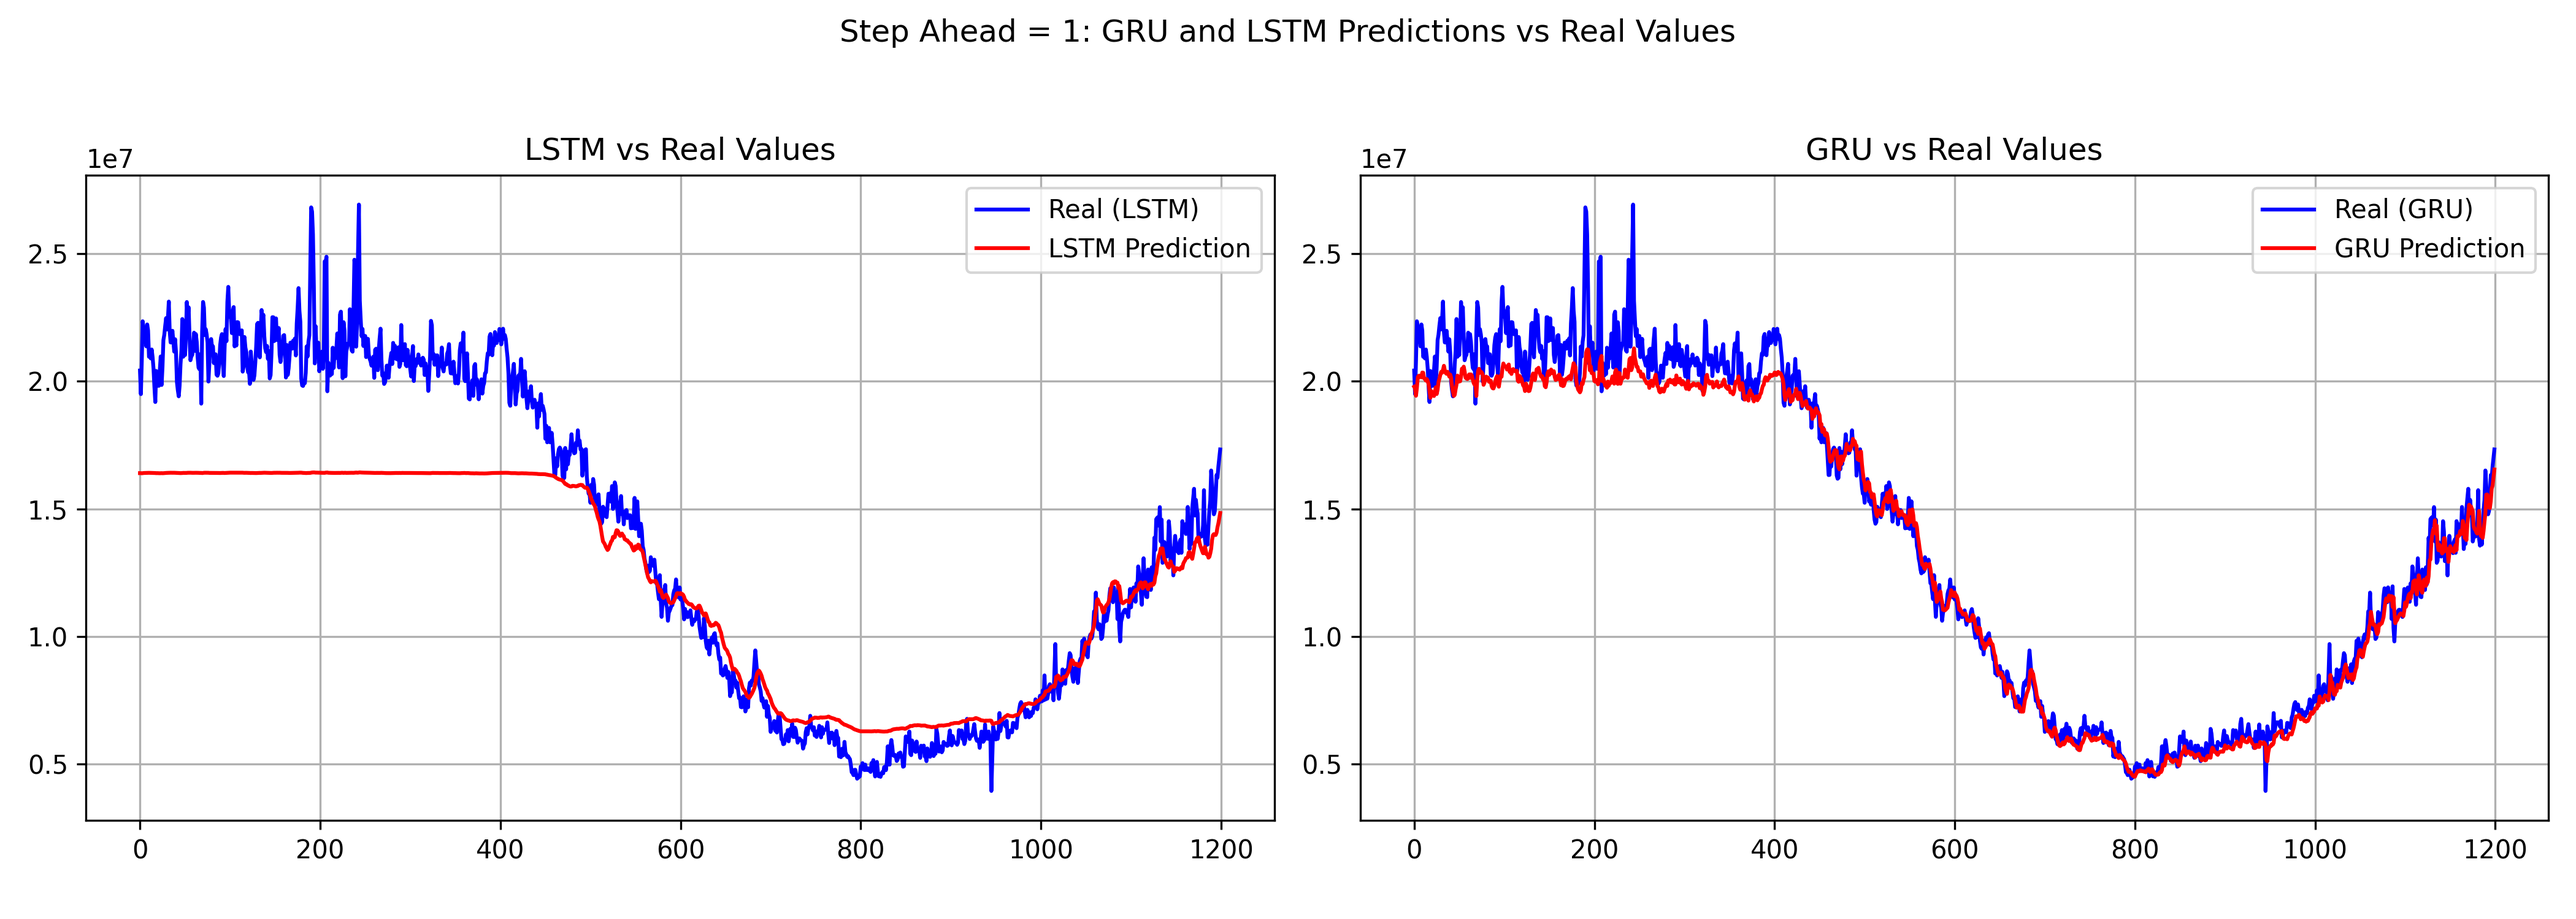
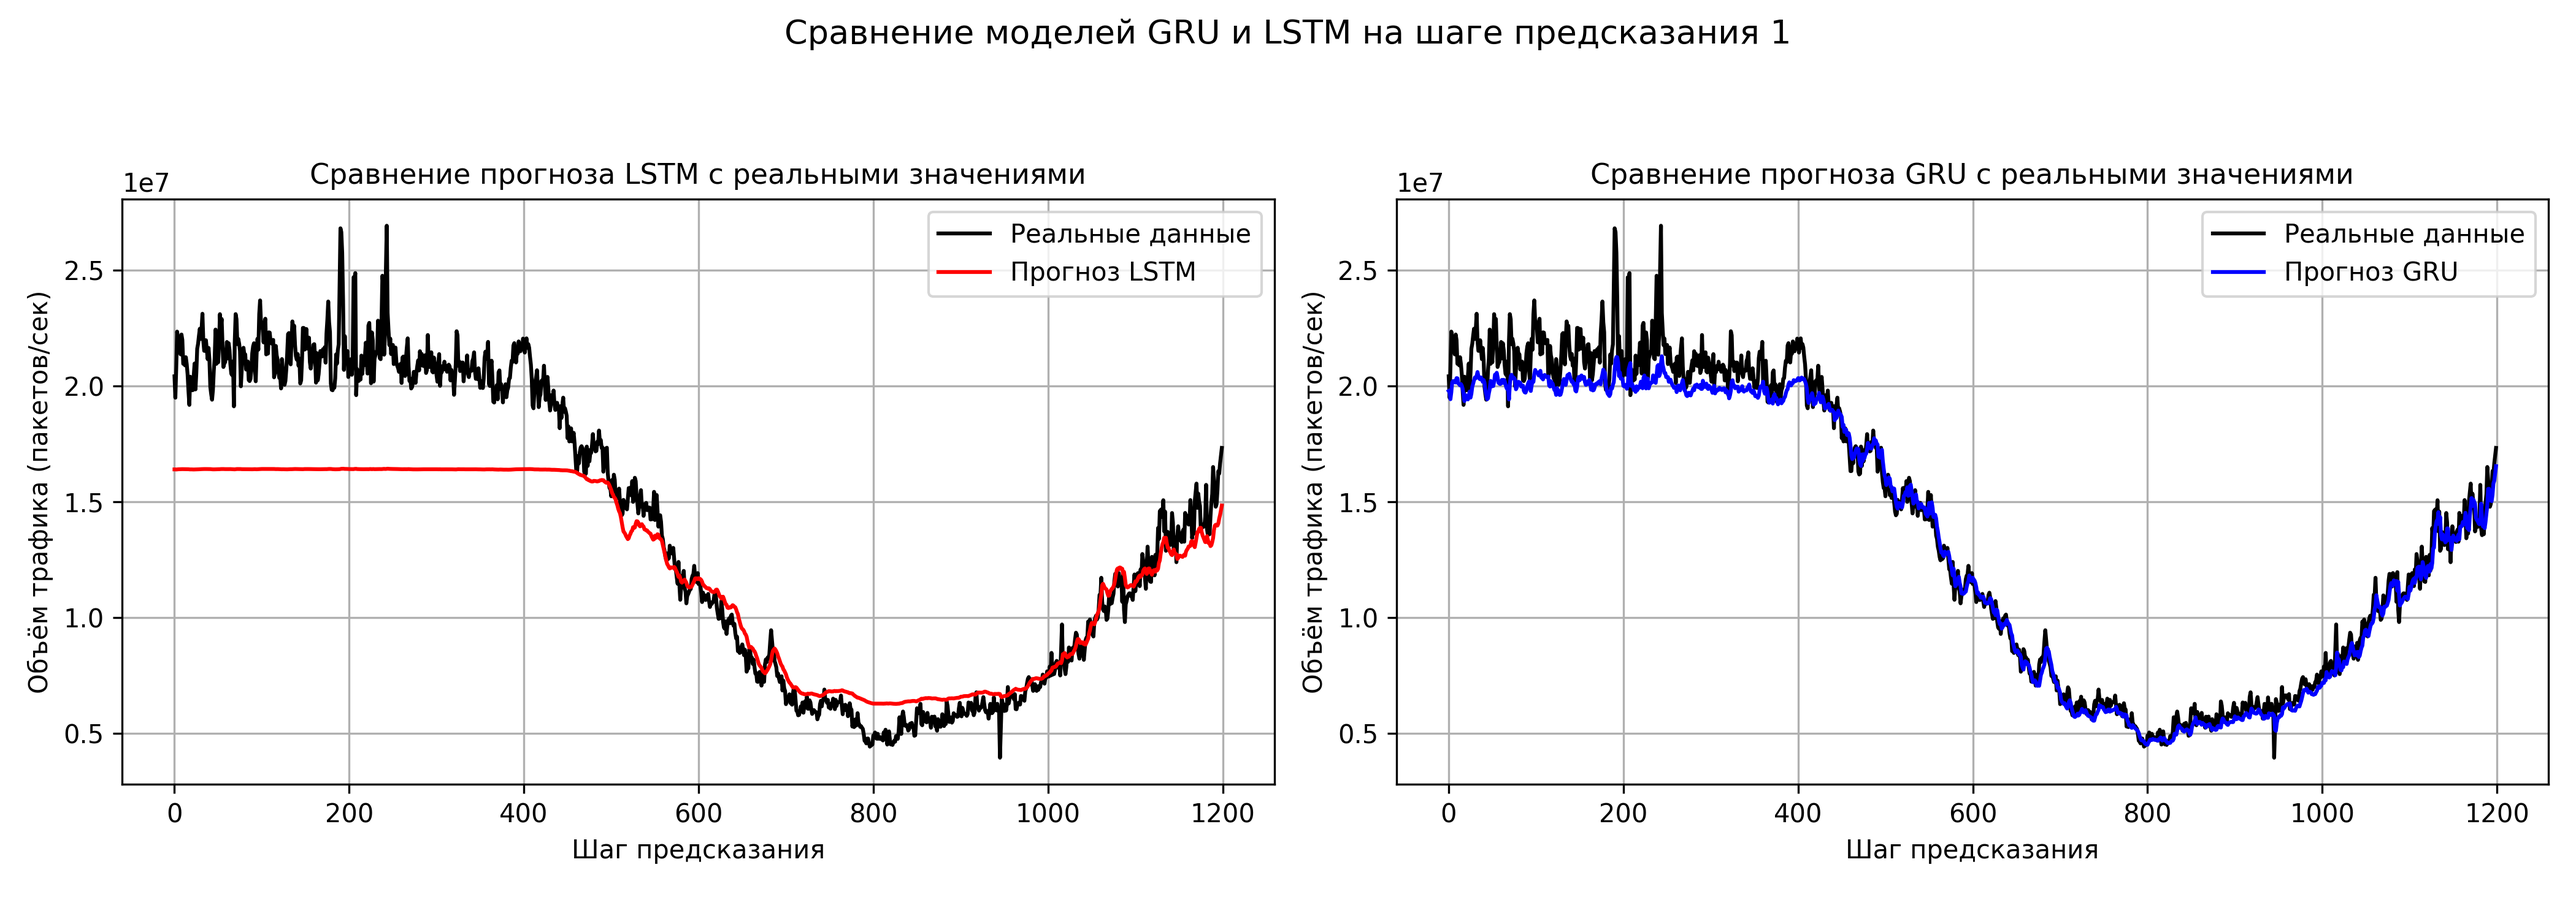
final1

diff --git a/evaluation/final_plot.py b/evaluation/final_plot.py
@@ -29,26 +29,30 @@ x = np.arange(N)
 fig, axs = plt.subplots(1, 2, figsize=(14, 5))
 
 # LSTM vs Real
-axs[0].plot(x, real_lstm[:N], label='Real (LSTM)', color='blue')
-axs[0].plot(x, lstm_pred[:N], label='LSTM Prediction', color='red')
-axs[0].set_title('LSTM vs Real Values')
+axs[0].plot(x, real_lstm[:N], label='Реальные данные', color='black')
+axs[0].plot(x, lstm_pred[:N], label='Прогноз LSTM', color='red')
+axs[0].set_title('Сравнение прогноза LSTM с реальными значениями', fontsize=11)
+axs[0].set_xlabel('Шаг предсказания')
+axs[0].set_ylabel('Объём трафика (пакетов/сек)', fontsize=10)
 axs[0].legend()
 axs[0].grid(True)
 
 # GRU vs Real
-axs[1].plot(x, real_gru[:N], label='Real (GRU)', color='blue')
-axs[1].plot(x, gru_pred[:N], label='GRU Prediction', color='red')
-axs[1].set_title('GRU vs Real Values')
+axs[1].plot(x, real_gru[:N], label='Реальные данные', color='black')
+axs[1].plot(x, gru_pred[:N], label='Прогноз GRU', color='blue',)
+axs[1].set_title('Сравнение прогноза GRU с реальными значениями', fontsize=11)
+axs[1].set_xlabel('Шаг предсказания')
+axs[1].set_ylabel('Объём трафика (пакетов/сек)', fontsize=10)
 axs[1].legend()
 axs[1].grid(True)
 
-plt.suptitle("Step Ahead = 1: GRU and LSTM Predictions vs Real Values")
-plt.tight_layout(rect=[0, 0.03, 1, 0.95])
+plt.suptitle("Сравнение моделей GRU и LSTM на шаге предсказания 1", fontsize=13)
+plt.tight_layout(rect=[0, 0.03, 1, 0.92])
 
-# Сохраняем
+# --- 6. Сохраняем ---
 output_dir = os.path.join(script_dir, "output_plots")
 os.makedirs(output_dir, exist_ok=True)
 output_path = os.path.join(output_dir, "gru_lstm_vs_real_separate.png")
 plt.savefig(output_path, dpi=300)
 
-output_path
+print(f"✅ График сохранён: {output_path}")

diff --git a/calculate_mape_and_plot.py b/calculate_mape_and_plot.py
@@ -1,0 +1,47 @@
+import pandas as pd
+import matplotlib.pyplot as plt
+import os
+
+# Пути к CSV-файлам с метриками
+gru_path = 'results/gru/timestep_60/lb=60_la=20_ne1=16_ne2=16_ne=16/metrics_comparison.csv'
+lstm_path = 'results/lstm/timestep_60/lb=60_la=20_ne1=16_ne2=16_ne=16/metrics_comparison.csv'
+
+# Загрузка CSV
+gru_df = pd.read_csv(gru_path)
+lstm_df = pd.read_csv(lstm_path)
+
+# Извлечение только MAPE-колонок
+gru_mape = gru_df.filter(like='MAPE')
+lstm_mape = lstm_df.filter(like='MAPE')
+
+# Расчёт среднего MAPE
+gru_avg = gru_mape.values.flatten().mean()
+lstm_avg = lstm_mape.values.flatten().mean()
+
+# Сохранение в таблицу
+summary_df = pd.DataFrame({
+    'Метрика': ['MAPE (средняя абсолютная процентная ошибка, %)'],
+    'GRU': [round(gru_avg, 2)],
+    'LSTM': [round(lstm_avg, 2)],
+})
+
+# Вывод в консоль
+print(summary_df)
+
+# Сохраняем как PNG-таблицу
+fig, ax = plt.subplots(figsize=(6, 1.2))
+ax.axis('tight')
+ax.axis('off')
+table = ax.table(cellText=summary_df.values,
+                 colLabels=summary_df.columns,
+                 cellLoc='center',
+                 loc='center')
+
+output_dir = 'output_plots'
+os.makedirs(output_dir, exist_ok=True)
+plt.savefig(os.path.join(output_dir, 'mape_summary_table.png'), dpi=300)
+
+# Сохраняем значения как CSV
+summary_df.to_csv(os.path.join(output_dir, 'mape_summary_table.csv'), index=False)
+
+print("✅ Готово! Таблица сохранена в output_plots/mape_summary_table.png и .csv")

diff --git a/plot_mape.py b/plot_mape.py
@@ -1,0 +1,33 @@
+import pandas as pd
+import matplotlib.pyplot as plt
+import os
+
+# Значения MAPE по шагам для GRU и LSTM
+mape_gru = [
+    4.42, 5.19, 5.52, 5.79, 6.06, 6.33, 6.56, 6.72, 6.88, 7.06,
+    7.23, 7.38, 7.54, 7.71, 7.81, 7.95, 8.12, 8.27, 8.48, 8.63
+]
+
+mape_lstm = [
+    13.86, 10.63, 9.80, 8.99, 8.95, 9.22, 9.54, 9.85, 10.11, 10.32,
+    10.50, 10.65, 10.80, 10.95, 11.08, 11.20, 11.31, 11.42, 11.53, 11.62
+]
+
+steps = list(range(1, 21))
+
+# --- Построение графика ---
+plt.figure(figsize=(12, 6))
+plt.plot(steps, mape_gru, label="GRU", color='blue')
+plt.plot(steps, mape_lstm, label="LSTM", color='red')
+
+plt.xlabel("Шаг предсказания", fontsize=12)
+plt.ylabel("MAPE (средняя абсолютная процентная ошибка, %)", fontsize=12)
+plt.title("Сравнение ошибок MAPE моделей GRU и LSTM", fontsize=14)
+plt.legend()
+plt.grid(True)
+
+# Сохранение
+output_path = os.path.join("output_plots", "mape_comparison_gru_lstm.png")
+os.makedirs("output_plots", exist_ok=True)
+plt.savefig(output_path, dpi=300)
+print(f"✅ График сохранён: {output_path}")
